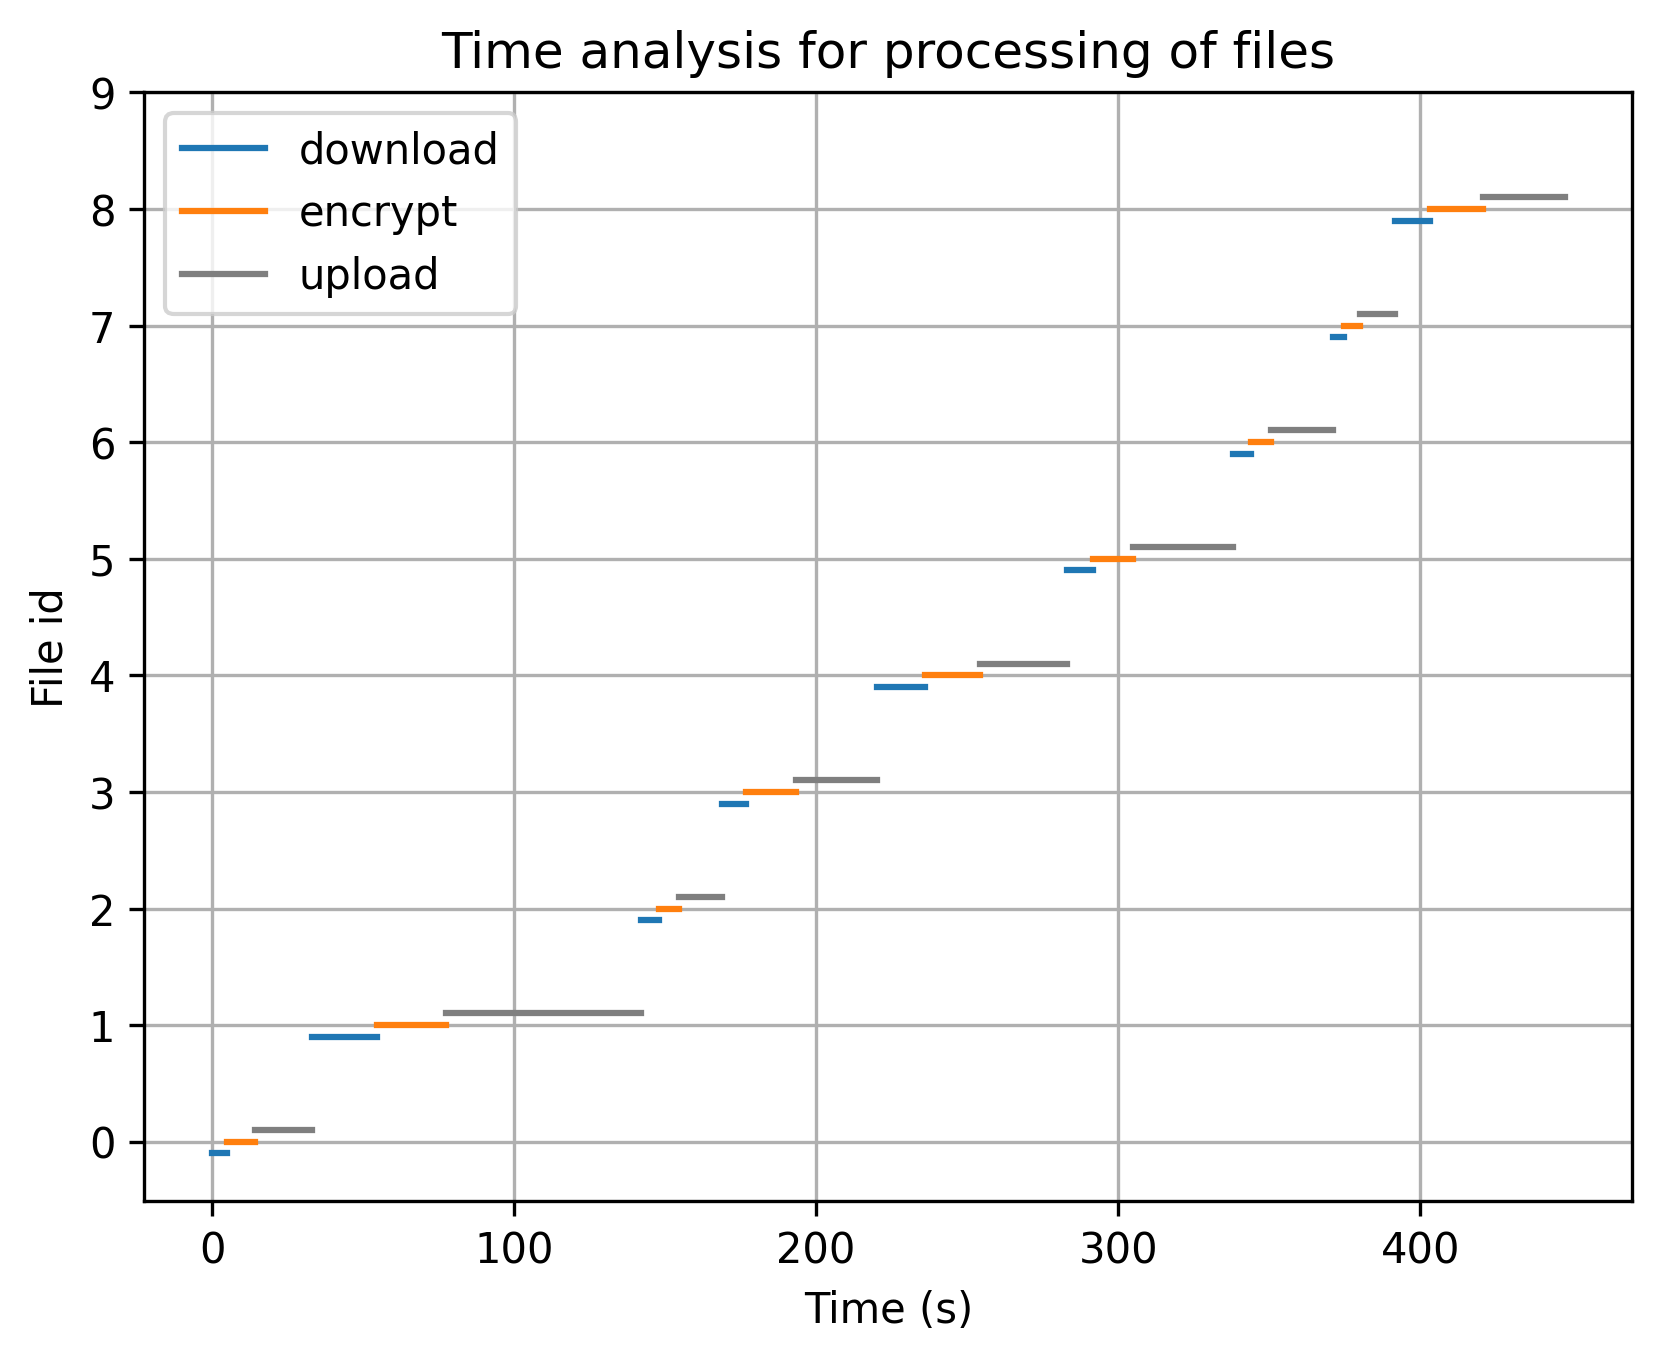
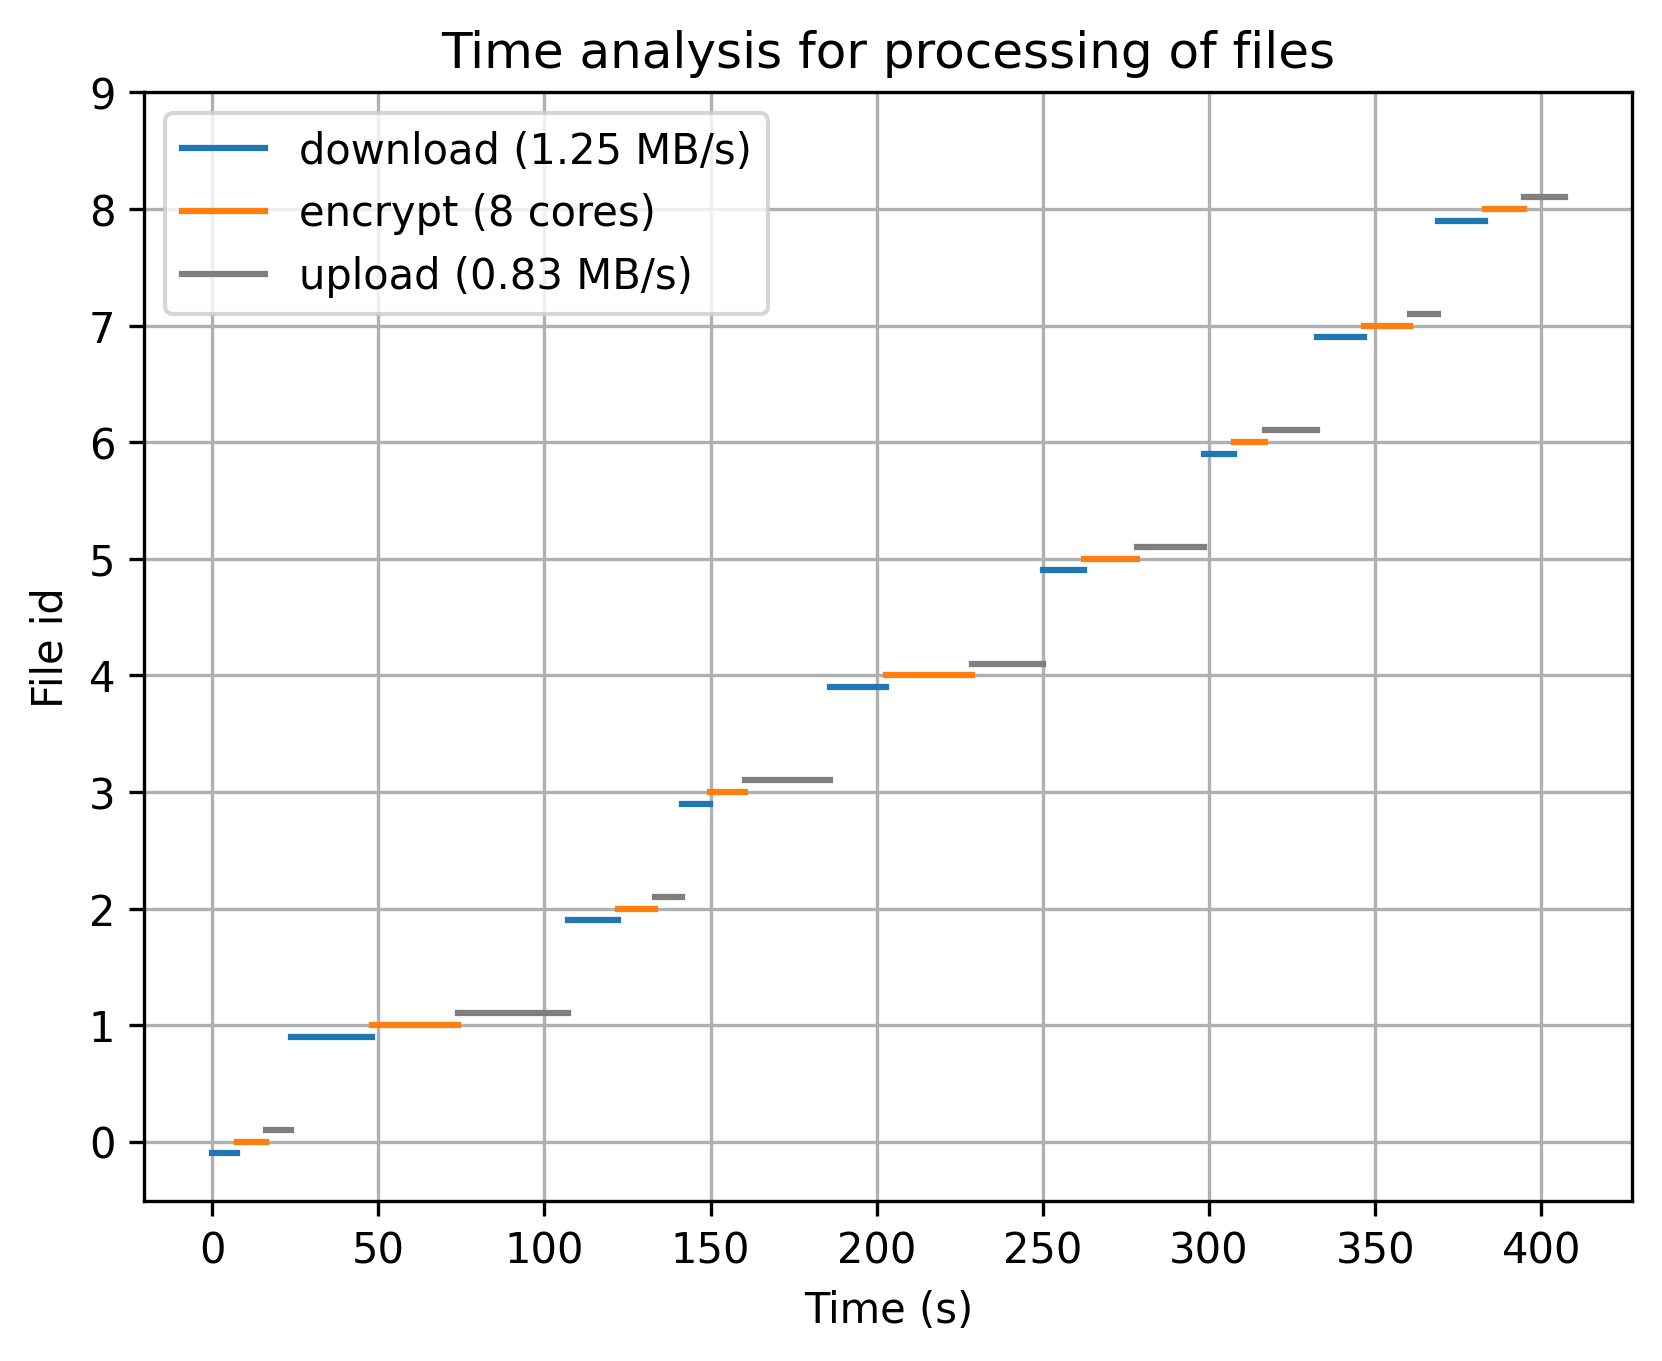
feat: add system print with cpu count and download/upload speed for future performance analysis

diff --git a/src/chapter-i/time_analysis.py b/src/chapter-i/time_analysis.py
@@ -5,25 +5,35 @@ from pathlib import Path
 
 # We read the json file with the time data
 time_analysis_path = Path('time_analysis')
-file_name = 'chapter-i.json'
-time_analysis_data_file_path = time_analysis_path / file_name
+time_file_name = 'chapter-i.json'
+time_analysis_time_file_path = time_analysis_path / time_file_name
 
-with open(time_analysis_data_file_path, 'r') as f:
-    data = json.loads(f.read())
+with open(time_analysis_time_file_path, 'r') as f:
+    time_data = json.loads(f.read())
+
+# Read the json file with the system data
+system_file_name = 'chapter-i-system.json'
+time_analysis_system_file_path = time_analysis_path / system_file_name
+
+with open(time_analysis_system_file_path, 'r') as f:
+    system_data = json.loads(f.read())
 
 # We will color-code each step differently
 steps_data = {
     'download': {
         'color': '#1f77b4',
-        'y_offset': -0.1
+        'y_offset': -0.1,
+        'label': f"download ({system_data['download_MB/s']:.2f} MB/s)"
     },
     'encrypt':  {
         'color': '#ff7f0e',
-        'y_offset': 0.0
+        'y_offset': 0.0,
+        'label': f"encrypt ({system_data['cpu_count']} cores)"
     },
     'upload':{
         'color': '#7f7f7f',
-        'y_offset': 0.1
+        'y_offset': 0.1,
+        'label': f"upload ({system_data['upload_MB/s']:.2f} MB/s)"
     },
 }
 
@@ -31,9 +41,9 @@ plt.figure()
 used_labels = set()
 
 # We plot the data: x axis is for time in seconds (continuous), y for each file (discrete)
-for file_id, file_data in data.items():
+for file_id, file_data in time_data.items():
     for step, step_data in steps_data.items():
-        label = step if step not in used_labels else None
+        label = step_data['label'] if step not in used_labels else None
         y_value = int(file_id) + step_data['y_offset']
         plt.plot(
             [file_data[step]['start'], file_data[step]['end']],
@@ -51,5 +61,5 @@ plt.legend()
 plt.grid()
 
 # We save the plot as png for posterior inspection
-plt.savefig(time_analysis_data_file_path.with_suffix('.png'), dpi=300, bbox_inches='tight')
+plt.savefig(time_analysis_time_file_path.with_suffix('.png'), dpi=300, bbox_inches='tight')
 

diff --git a/src/chapter-i/pipeline.py b/src/chapter-i/pipeline.py
@@ -2,6 +2,8 @@ import requests
 import boto3
 import time
 import json
+import multiprocessing
+import speedtest
 from pathlib import Path
 from dotenv import dotenv_values
 
@@ -130,4 +132,29 @@ with open(time_analysis_file_path, 'w') as f:
 
 total_time = end_time - start_time
 print(f"\nTotal time is {int(total_time)}s")
+
+# Check number of cores for performance tuning analysis
+cpu_count = multiprocessing.cpu_count()
+
+# Check internet speed test for performance tuning too
+st = speedtest.Speedtest()
+
+st.get_best_server()
+download_speed = st.download()
+upload_speed = st.upload()
+
+download_mbytesps = download_speed / (1_000_000 * 8)
+upload_mbytesps = upload_speed / (1_000_000 * 8)
+
+performance_data = {
+    'cpu_count': cpu_count,
+    'download_MB/s': download_mbytesps,
+    'upload_MB/s': upload_mbytesps
+}
+
+# Write down the time data into a json file for posterior analysis
+time_analysis_performance_file_path = time_analysis_path / 'chapter-i-performance.json'
+
+with open(time_analysis_performance_file_path, 'w') as f:
+    f.write(json.dumps(performance_data, indent=2))
 
